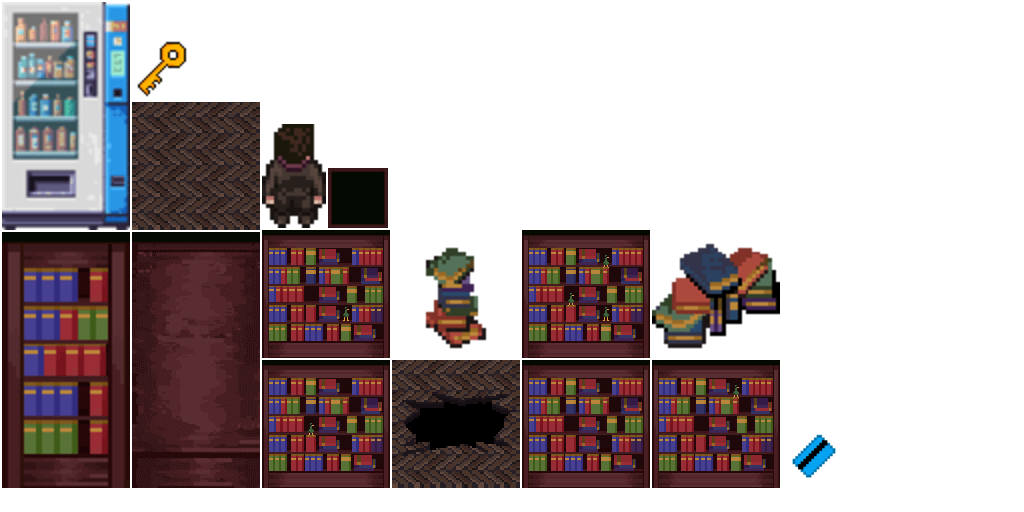
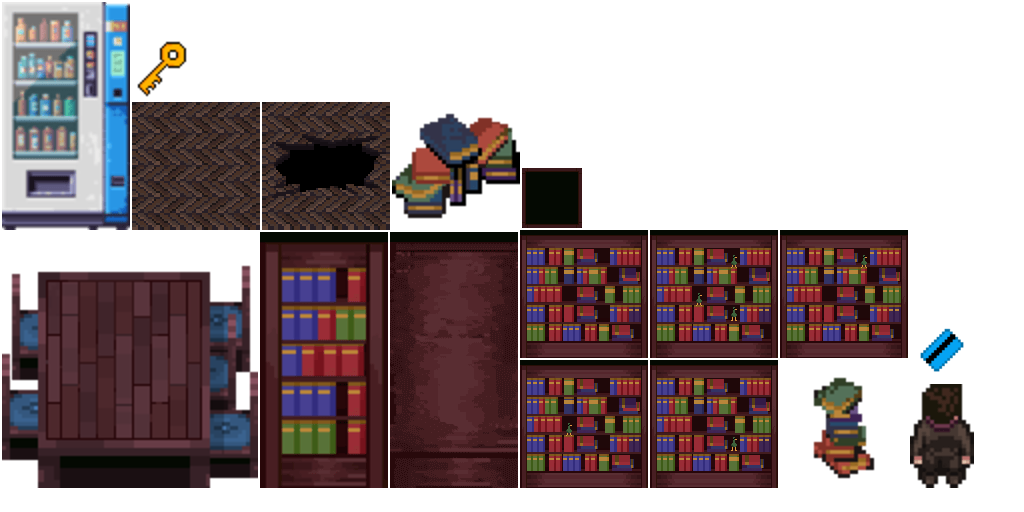
Implement pause functionality and update HUD rendering; add TableAndChair entity and adjust atlas bounds

diff --git a/core/src/main/java/com/mathochist/mazegame/Screens/Game/LibraryScreen.java b/core/src/main/java/com/mathochist/mazegame/Screens/Game/LibraryScreen.java
@@ -1,17 +1,20 @@
 package com.mathochist.mazegame.Screens.Game;
 
 import com.badlogic.gdx.Gdx;
+import com.badlogic.gdx.Input;
 import com.badlogic.gdx.graphics.GL20;
 import com.badlogic.gdx.utils.GdxRuntimeException;
 import com.mathochist.mazegame.Entities.Player;
 import com.mathochist.mazegame.Main;
 import com.mathochist.mazegame.Screens.EndScreen;
 import com.mathochist.mazegame.UI.Speech.SpeechType;
+import com.mathochist.mazegame.UI.Timer.TimerManager;
 import com.mathochist.mazegame.World.GameWorld;
 
 public class LibraryScreen extends BaseGameScreen {
 
     private double timeSinceLastSprintPenalty = 0;
+    private double timeSinceLastPauseToggle = 0;
 
     public LibraryScreen(Main game) {
         super(game);
@@ -49,6 +52,20 @@ public class LibraryScreen extends BaseGameScreen {
 
     @Override
     public void render(float delta) {
+
+        if (System.currentTimeMillis() - timeSinceLastPauseToggle >= 300) {
+            if (Gdx.input.isKeyJustPressed(Input.Keys.ESCAPE)) {
+                this.setPaused(!this.isPaused());
+                timeSinceLastPauseToggle = System.currentTimeMillis();
+            }
+        }
+
+        if (super.isPaused()) {
+            super.getGameHud().renderPauseScreen();
+            TimerManager.START_TIME += delta * 1000; // Freeze timer while paused
+            return;
+        }
+
         try {
             Gdx.gl.glClearColor(0f,0f,0f,1.0f);
             Gdx.gl.glClear(GL20.GL_COLOR_BUFFER_BIT);

diff --git a/core/src/main/java/com/mathochist/mazegame/Screens/Game/LibraryBasementScreen.java b/core/src/main/java/com/mathochist/mazegame/Screens/Game/LibraryBasementScreen.java
@@ -1,15 +1,19 @@
 package com.mathochist.mazegame.Screens.Game;
 
 import com.badlogic.gdx.Gdx;
+import com.badlogic.gdx.Input;
 import com.badlogic.gdx.graphics.GL20;
 import com.mathochist.mazegame.Entities.Player;
 import com.mathochist.mazegame.Entities.PlayerInventory.InventoryObject;
 import com.mathochist.mazegame.Main;
 import com.mathochist.mazegame.Screens.EndScreen;
 import com.mathochist.mazegame.UI.Speech.SpeechType;
+import com.mathochist.mazegame.UI.Timer.TimerManager;
 import com.mathochist.mazegame.World.GameWorld;
 
 public class LibraryBasementScreen extends BaseGameScreen {
+
+    private double timeSinceLastPauseToggle = 0;
 
     public LibraryBasementScreen(Main game) {
         super(game);
@@ -59,6 +63,20 @@ public class LibraryBasementScreen extends BaseGameScreen {
 
     @Override
     public void render(float delta) {
+
+        if (System.currentTimeMillis() - timeSinceLastPauseToggle >= 300) {
+            if (Gdx.input.isKeyJustPressed(Input.Keys.ESCAPE)) {
+                this.setPaused(!this.isPaused());
+                timeSinceLastPauseToggle = System.currentTimeMillis();
+            }
+        }
+
+        if (super.isPaused()) {
+            super.getGameHud().renderPauseScreen();
+            TimerManager.START_TIME += delta * 1000; // Freeze timer while paused
+            return;
+        }
+
         try {
             Gdx.gl.glClearColor(0f,0f,0f,1.0f);
             Gdx.gl.glClear(GL20.GL_COLOR_BUFFER_BIT);

diff --git a/core/src/main/java/com/mathochist/mazegame/Screens/Game/OutdoorScreen.java b/core/src/main/java/com/mathochist/mazegame/Screens/Game/OutdoorScreen.java
@@ -1,13 +1,17 @@
 package com.mathochist.mazegame.Screens.Game;
 
 import com.badlogic.gdx.Gdx;
+import com.badlogic.gdx.Input;
 import com.badlogic.gdx.graphics.GL20;
 import com.mathochist.mazegame.Entities.Player;
 import com.mathochist.mazegame.Main;
 import com.mathochist.mazegame.Screens.EndScreen;
+import com.mathochist.mazegame.UI.Timer.TimerManager;
 import com.mathochist.mazegame.World.GameWorld;
 
 public class OutdoorScreen extends BaseGameScreen {
+
+    private double timeSinceLastPauseToggle = 0;
 
     public OutdoorScreen(Main game) {
         super(game);
@@ -47,6 +51,20 @@ public class OutdoorScreen extends BaseGameScreen {
 
     @Override
     public void render(float delta) {
+
+        if (System.currentTimeMillis() - timeSinceLastPauseToggle >= 300) {
+            if (Gdx.input.isKeyJustPressed(Input.Keys.ESCAPE)) {
+                this.setPaused(!this.isPaused());
+                timeSinceLastPauseToggle = System.currentTimeMillis();
+            }
+        }
+
+        if (super.isPaused()) {
+            super.getGameHud().renderPauseScreen();
+            TimerManager.START_TIME += delta * 1000; // Freeze timer while paused
+            return;
+        }
+
         try {
             Gdx.gl.glClearColor(0f,0f,0f,1.0f);
             Gdx.gl.glClear(GL20.GL_COLOR_BUFFER_BIT);

diff --git a/core/src/main/java/com/mathochist/mazegame/UI/Hud.java b/core/src/main/java/com/mathochist/mazegame/UI/Hud.java
@@ -16,6 +16,7 @@ public class Hud {
     private SpriteBatch hudBatch;
     private BitmapFont small_font;
     private BitmapFont main_font;
+    private BitmapFont vlarge_font;
 
     private TextureAtlas gameUIAtlas;
 
@@ -34,6 +35,8 @@ public class Hud {
 
         main_font = new BitmapFont(Gdx.files.internal("fonts/game_font.fnt"), Gdx.files.internal("fonts/game_font.png"), false);
         main_font.getData().setScale(1.0f);
+
+        vlarge_font = new BitmapFont(Gdx.files.internal("fonts/vlarge_game_font.fnt"));
 
         speechBubbleManager = new SpeechBubbleManager(hudBatch, hudCamera, main_font);
 
@@ -77,6 +80,21 @@ public class Hud {
 
     public SpeechBubbleManager getSpeechBubbleManager() {
         return speechBubbleManager;
+    }
+
+    public void renderPauseScreen() {
+        hudCamera.update();
+        hudBatch.setProjectionMatrix(hudCamera.combined);
+
+        hudBatch.begin();
+
+        float centerX = hudCamera.viewportWidth / 2.0f;
+        float centerY = hudCamera.viewportHeight / 2.0f;
+
+        vlarge_font.draw(hudBatch, "Game Paused", centerX - 350, centerY + 100);
+        main_font.draw(hudBatch, "Press ESC to Resume", centerX - 140, centerY - 10);
+
+        hudBatch.end();
     }
 
 }

diff --git a/core/src/main/java/com/mathochist/mazegame/World/Objects/TableAndChair.java b/core/src/main/java/com/mathochist/mazegame/World/Objects/TableAndChair.java
@@ -16,7 +16,7 @@ import com.mathochist.mazegame.World.GameWorld;
 public class TableAndChair extends MapEntity {
 
     public TableAndChair(Main game, SpriteBatch batch, TextureAtlas atlas, Integer TileX, Integer TileY, Integer Width, Integer Height, Boolean collidable) {
-        super(game, batch, atlas, "table_and_chair", TileX, TileY, Width, Height, collidable);
+        super(game, batch, atlas, "table_and_chairs", TileX, TileY, Width, Height, collidable);
     }
 
     @Override
@@ -25,7 +25,7 @@ public class TableAndChair extends MapEntity {
         Sprite bookcaseSprite = new Sprite(bookcaseRegion);
         bookcaseSprite.setPosition(
             super.getTileX() * world.getMap().getTileWidth(),
-            Gdx.graphics.getHeight() - ((super.getTileY() + 1) * world.getMap().getTileHeight() + world.tileDrawYOffset + world.getDeltaViewportHeight())
+            Gdx.graphics.getHeight() - ((super.getTileY() + 2) * world.getMap().getTileHeight() + world.tileDrawYOffset + world.getDeltaViewportHeight())
         );
         renderBuffer.addToBuffer(new RenderObject(
             bookcaseSprite,

diff --git a/core/src/main/java/com/mathochist/mazegame/Screens/Game/BaseGameScreen.java b/core/src/main/java/com/mathochist/mazegame/Screens/Game/BaseGameScreen.java
@@ -31,6 +31,8 @@ public abstract class BaseGameScreen extends DefaultScreen {
 
     private RenderBuffer renderBuffer;
 
+    private boolean isPaused = false;
+
     public BaseGameScreen(Main game) {
         super(game);
         // GDX setup
@@ -147,6 +149,14 @@ public abstract class BaseGameScreen extends DefaultScreen {
 
     public RenderBuffer getRenderBuffer() {
         return renderBuffer;
+    }
+
+    public boolean isPaused() {
+        return isPaused;
+    }
+
+    public void setPaused(boolean paused) {
+        isPaused = paused;
     }
 
 }

diff --git a/core/src/main/java/com/mathochist/mazegame/Entities/Player.java b/core/src/main/java/com/mathochist/mazegame/Entities/Player.java
@@ -171,10 +171,6 @@ public class Player {
             // interaction logic
             world.triggerInteractionByPixel(x, y, INTERACTION_RANGE, this);
         }
-        if (keyBuffer.isKeyPressed(KeyBinds.ESCAPE_GAME)) {
-            // escape logic
-            Gdx.app.exit();
-        }
 
         // check if player has energy drink in inventory for speed boost
         if (game.getPlayerInventory().hasItem(InventoryObject.ENERGY_DRINK)) {
